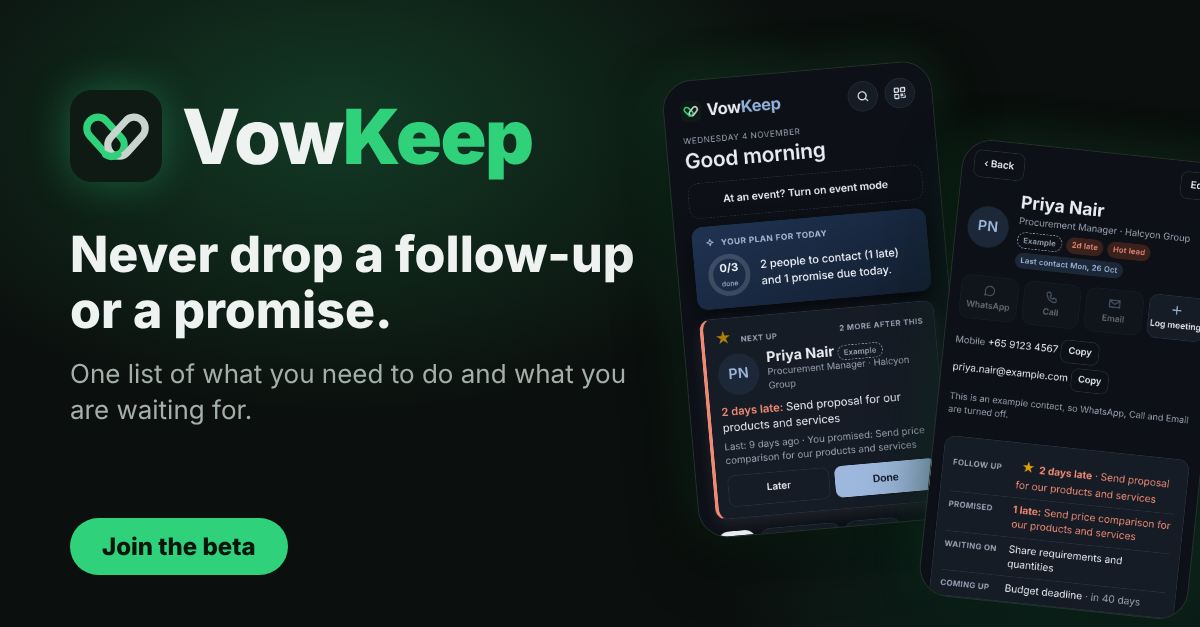
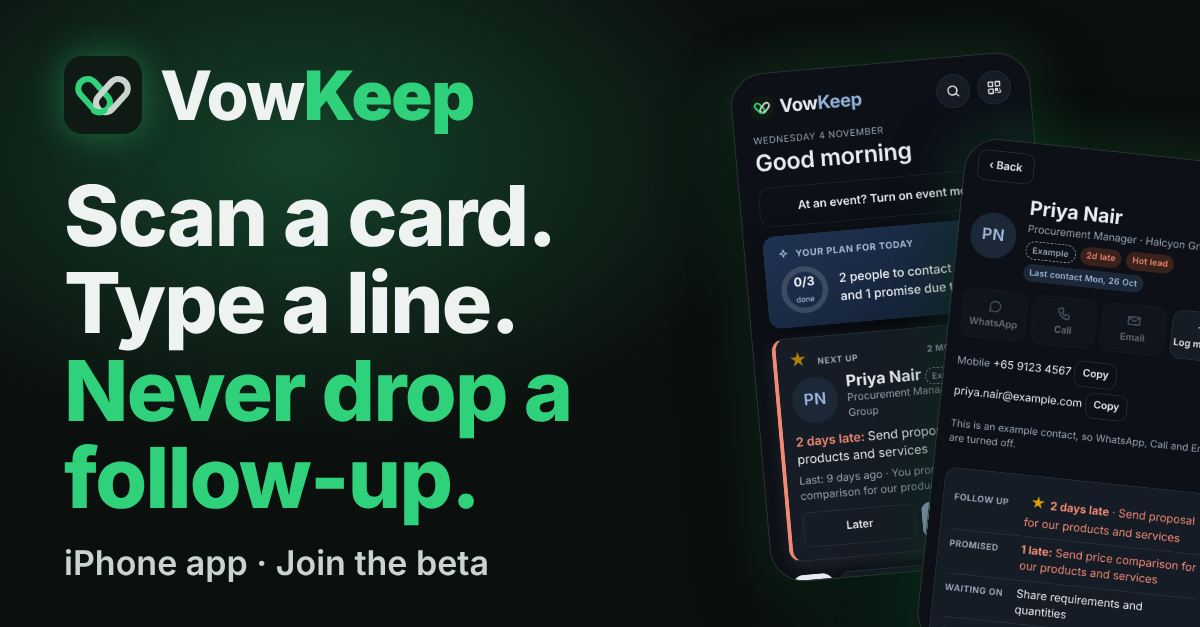
Share preview: clearer picture with bigger text, longer description, better title

diff --git a/index.html b/index.html
@@ -1,4 +1,4 @@
-<!doctype html><html lang="en"><head><meta charset="utf-8"><meta name="viewport" content="width=device-width, initial-scale=1"><meta name="description" content="VowKeep keeps one list of what you need to do for people and what you are waiting for from them. Scan a business card or type one line; it does the remembering."><meta name="theme-color" content="#0b0f0d"><link rel="icon" href="img/favicon.svg" type="image/svg+xml"><meta property="og:title" content="VowKeep"><meta property="og:description" content="Never drop a follow-up or a promise."><meta property="og:type" content="website"><meta property="og:site_name" content="VowKeep"><meta property="og:image" content="https://clarencecheng26-sys.github.io/vowkeep-site/img/og.png"><meta property="og:image:width" content="1200"><meta property="og:image:height" content="627"><meta property="og:image:alt" content="VowKeep: never drop a follow-up or a promise"><meta name="twitter:card" content="summary_large_image"><title>Professional Follow-Up Ledger · VowKeep</title><link rel="stylesheet" href="style.css"></head><body class="home"><main><header><svg viewBox="0 0 512 512" aria-hidden="true"><rect width="512" height="512" rx="112" fill="#0F1A14"/><g transform="translate(256 268)"><rect x="-62" y="-170" width="124" height="250" rx="62" transform="rotate(-42) translate(-38 0)" fill="none" stroke="#2FD27A" stroke-width="40"/><rect x="-62" y="-170" width="124" height="250" rx="62" transform="rotate(42) translate(38 0)" fill="none" stroke="#C9D4CF" stroke-width="40"/><path d="M-14 74 A62 62 0 0 1 -66 30" transform="rotate(-42) translate(-38 0)" fill="none" stroke="#2FD27A" stroke-width="40" stroke-linecap="round"/></g></svg><a href="index.html">VowKeep</a><nav><a href="#h-how">How it works</a><a href="#h-get">Features</a><a href="#h-plans">Plans</a><a href="#h-faq">FAQ</a><a class="navcta" href="https://forms.gle/W3UCwRWU8LSgqYCk6">Join the beta</a><button id="lookbtn" type="button" aria-pressed="false">Matrix look</button></nav></header>
+<!doctype html><html lang="en"><head><meta charset="utf-8"><meta name="viewport" content="width=device-width, initial-scale=1"><meta name="description" content="VowKeep keeps one list of what you need to do for people and what you are waiting for from them. Scan a business card or type one line; it does the remembering."><meta name="theme-color" content="#0b0f0d"><link rel="icon" href="img/favicon.svg" type="image/svg+xml"><meta property="og:title" content="VowKeep: scan a card, type a line, never drop a follow-up"><meta property="og:description" content="VowKeep is an iPhone app that remembers what you promised and what you are waiting for, and reminds you at the right time. Join the beta."><meta name="twitter:title" content="VowKeep: scan a card, type a line, never drop a follow-up"><meta name="twitter:description" content="VowKeep is an iPhone app that remembers what you promised and what you are waiting for, and reminds you at the right time. Join the beta."><meta property="og:type" content="website"><meta property="og:site_name" content="VowKeep"><meta property="og:image" content="https://clarencecheng26-sys.github.io/vowkeep-site/img/og.png?v=2"><meta property="og:image:width" content="1200"><meta property="og:image:height" content="627"><meta property="og:image:alt" content="VowKeep: never drop a follow-up or a promise"><meta name="twitter:card" content="summary_large_image"><title>Professional Follow-Up Ledger · VowKeep</title><link rel="stylesheet" href="style.css"></head><body class="home"><main><header><svg viewBox="0 0 512 512" aria-hidden="true"><rect width="512" height="512" rx="112" fill="#0F1A14"/><g transform="translate(256 268)"><rect x="-62" y="-170" width="124" height="250" rx="62" transform="rotate(-42) translate(-38 0)" fill="none" stroke="#2FD27A" stroke-width="40"/><rect x="-62" y="-170" width="124" height="250" rx="62" transform="rotate(42) translate(38 0)" fill="none" stroke="#C9D4CF" stroke-width="40"/><path d="M-14 74 A62 62 0 0 1 -66 30" transform="rotate(-42) translate(-38 0)" fill="none" stroke="#2FD27A" stroke-width="40" stroke-linecap="round"/></g></svg><a href="index.html">VowKeep</a><nav><a href="#h-how">How it works</a><a href="#h-get">Features</a><a href="#h-plans">Plans</a><a href="#h-faq">FAQ</a><a class="navcta" href="https://forms.gle/W3UCwRWU8LSgqYCk6">Join the beta</a><button id="lookbtn" type="button" aria-pressed="false">Matrix look</button></nav></header>
 <section class="hero">
 <div class="brandbig"><svg class="bigmark" viewBox="0 0 512 512" aria-hidden="true"><rect width="512" height="512" rx="112" fill="#0F1A14"/><g transform="translate(256 268)"><rect x="-62" y="-170" width="124" height="250" rx="62" transform="rotate(-42) translate(-38 0)" fill="none" stroke="#2FD27A" stroke-width="40"/><rect x="-62" y="-170" width="124" height="250" rx="62" transform="rotate(42) translate(38 0)" fill="none" stroke="#C9D4CF" stroke-width="40"/><path d="M-14 74 A62 62 0 0 1 -66 30" transform="rotate(-42) translate(-38 0)" fill="none" stroke="#2FD27A" stroke-width="40" stroke-linecap="round"/></g></svg><span>Vow<b>Keep</b></span></div>
 <h1>Scan a card. Type a line.<br><span class="hl">Never drop a follow-up.</span></h1>

diff --git a/delete-account.html b/delete-account.html
@@ -1,4 +1,4 @@
-<!doctype html><html lang="en"><head><meta charset="utf-8"><meta name="viewport" content="width=device-width, initial-scale=1"><meta name="description" content="VowKeep keeps one list of what you need to do for people and what you are waiting for from them. Scan a business card or type one line; it does the remembering."><meta name="theme-color" content="#0b0f0d"><link rel="icon" href="img/favicon.svg" type="image/svg+xml"><meta property="og:title" content="VowKeep"><meta property="og:description" content="Never drop a follow-up or a promise."><meta property="og:type" content="website"><meta property="og:site_name" content="VowKeep"><meta property="og:image" content="https://clarencecheng26-sys.github.io/vowkeep-site/img/og.png"><meta property="og:image:width" content="1200"><meta property="og:image:height" content="627"><meta property="og:image:alt" content="VowKeep: never drop a follow-up or a promise"><meta name="twitter:card" content="summary_large_image"><title>Delete your account · VowKeep</title><link rel="stylesheet" href="style.css"></head><body><main><header><svg viewBox="0 0 512 512" aria-hidden="true"><rect width="512" height="512" rx="112" fill="#0F1A14"/><g transform="translate(256 268)"><rect x="-62" y="-170" width="124" height="250" rx="62" transform="rotate(-42) translate(-38 0)" fill="none" stroke="#2FD27A" stroke-width="40"/><rect x="-62" y="-170" width="124" height="250" rx="62" transform="rotate(42) translate(38 0)" fill="none" stroke="#C9D4CF" stroke-width="40"/><path d="M-14 74 A62 62 0 0 1 -66 30" transform="rotate(-42) translate(-38 0)" fill="none" stroke="#2FD27A" stroke-width="40" stroke-linecap="round"/></g></svg><a href="index.html">VowKeep</a><nav><a href="privacy.html">Privacy</a><a href="terms.html">Terms</a><a href="support.html">Support</a><button id="lookbtn" type="button" aria-pressed="false">Matrix look</button></nav></header>
+<!doctype html><html lang="en"><head><meta charset="utf-8"><meta name="viewport" content="width=device-width, initial-scale=1"><meta name="description" content="VowKeep keeps one list of what you need to do for people and what you are waiting for from them. Scan a business card or type one line; it does the remembering."><meta name="theme-color" content="#0b0f0d"><link rel="icon" href="img/favicon.svg" type="image/svg+xml"><meta property="og:title" content="VowKeep: scan a card, type a line, never drop a follow-up"><meta property="og:description" content="VowKeep is an iPhone app that remembers what you promised and what you are waiting for, and reminds you at the right time. Join the beta."><meta name="twitter:title" content="VowKeep: scan a card, type a line, never drop a follow-up"><meta name="twitter:description" content="VowKeep is an iPhone app that remembers what you promised and what you are waiting for, and reminds you at the right time. Join the beta."><meta property="og:type" content="website"><meta property="og:site_name" content="VowKeep"><meta property="og:image" content="https://clarencecheng26-sys.github.io/vowkeep-site/img/og.png?v=2"><meta property="og:image:width" content="1200"><meta property="og:image:height" content="627"><meta property="og:image:alt" content="VowKeep: never drop a follow-up or a promise"><meta name="twitter:card" content="summary_large_image"><title>Delete your account · VowKeep</title><link rel="stylesheet" href="style.css"></head><body><main><header><svg viewBox="0 0 512 512" aria-hidden="true"><rect width="512" height="512" rx="112" fill="#0F1A14"/><g transform="translate(256 268)"><rect x="-62" y="-170" width="124" height="250" rx="62" transform="rotate(-42) translate(-38 0)" fill="none" stroke="#2FD27A" stroke-width="40"/><rect x="-62" y="-170" width="124" height="250" rx="62" transform="rotate(42) translate(38 0)" fill="none" stroke="#C9D4CF" stroke-width="40"/><path d="M-14 74 A62 62 0 0 1 -66 30" transform="rotate(-42) translate(-38 0)" fill="none" stroke="#2FD27A" stroke-width="40" stroke-linecap="round"/></g></svg><a href="index.html">VowKeep</a><nav><a href="privacy.html">Privacy</a><a href="terms.html">Terms</a><a href="support.html">Support</a><button id="lookbtn" type="button" aria-pressed="false">Matrix look</button></nav></header>
 <h1>Delete your account</h1>
 <p><b>Fastest:</b> in the app, go to Me › Delete account. Your account is locked at once and permanently deleted after 7 days; you can cancel within those 7 days from the email we send.</p>
 <p><b>Without the app:</b> email <a href="mailto:vowkeep.app@gmail.com?subject=Delete%20my%20VowKeep%20account">vowkeep.app@gmail.com</a> from the email address you signed up with, with the subject "Delete my VowKeep account". We confirm within 2 working days.</p>

diff --git a/terms.html b/terms.html
@@ -1,4 +1,4 @@
-<!doctype html><html lang="en"><head><meta charset="utf-8"><meta name="viewport" content="width=device-width, initial-scale=1"><meta name="description" content="VowKeep keeps one list of what you need to do for people and what you are waiting for from them. Scan a business card or type one line; it does the remembering."><meta name="theme-color" content="#0b0f0d"><link rel="icon" href="img/favicon.svg" type="image/svg+xml"><meta property="og:title" content="VowKeep"><meta property="og:description" content="Never drop a follow-up or a promise."><meta property="og:type" content="website"><meta property="og:site_name" content="VowKeep"><meta property="og:image" content="https://clarencecheng26-sys.github.io/vowkeep-site/img/og.png"><meta property="og:image:width" content="1200"><meta property="og:image:height" content="627"><meta property="og:image:alt" content="VowKeep: never drop a follow-up or a promise"><meta name="twitter:card" content="summary_large_image"><title>Terms of Use · VowKeep</title><link rel="stylesheet" href="style.css"></head><body><main><header><svg viewBox="0 0 512 512" aria-hidden="true"><rect width="512" height="512" rx="112" fill="#0F1A14"/><g transform="translate(256 268)"><rect x="-62" y="-170" width="124" height="250" rx="62" transform="rotate(-42) translate(-38 0)" fill="none" stroke="#2FD27A" stroke-width="40"/><rect x="-62" y="-170" width="124" height="250" rx="62" transform="rotate(42) translate(38 0)" fill="none" stroke="#C9D4CF" stroke-width="40"/><path d="M-14 74 A62 62 0 0 1 -66 30" transform="rotate(-42) translate(-38 0)" fill="none" stroke="#2FD27A" stroke-width="40" stroke-linecap="round"/></g></svg><a href="index.html">VowKeep</a><nav><a href="privacy.html">Privacy</a><a href="terms.html">Terms</a><a href="support.html">Support</a><button id="lookbtn" type="button" aria-pressed="false">Matrix look</button></nav></header>
+<!doctype html><html lang="en"><head><meta charset="utf-8"><meta name="viewport" content="width=device-width, initial-scale=1"><meta name="description" content="VowKeep keeps one list of what you need to do for people and what you are waiting for from them. Scan a business card or type one line; it does the remembering."><meta name="theme-color" content="#0b0f0d"><link rel="icon" href="img/favicon.svg" type="image/svg+xml"><meta property="og:title" content="VowKeep: scan a card, type a line, never drop a follow-up"><meta property="og:description" content="VowKeep is an iPhone app that remembers what you promised and what you are waiting for, and reminds you at the right time. Join the beta."><meta name="twitter:title" content="VowKeep: scan a card, type a line, never drop a follow-up"><meta name="twitter:description" content="VowKeep is an iPhone app that remembers what you promised and what you are waiting for, and reminds you at the right time. Join the beta."><meta property="og:type" content="website"><meta property="og:site_name" content="VowKeep"><meta property="og:image" content="https://clarencecheng26-sys.github.io/vowkeep-site/img/og.png?v=2"><meta property="og:image:width" content="1200"><meta property="og:image:height" content="627"><meta property="og:image:alt" content="VowKeep: never drop a follow-up or a promise"><meta name="twitter:card" content="summary_large_image"><title>Terms of Use · VowKeep</title><link rel="stylesheet" href="style.css"></head><body><main><header><svg viewBox="0 0 512 512" aria-hidden="true"><rect width="512" height="512" rx="112" fill="#0F1A14"/><g transform="translate(256 268)"><rect x="-62" y="-170" width="124" height="250" rx="62" transform="rotate(-42) translate(-38 0)" fill="none" stroke="#2FD27A" stroke-width="40"/><rect x="-62" y="-170" width="124" height="250" rx="62" transform="rotate(42) translate(38 0)" fill="none" stroke="#C9D4CF" stroke-width="40"/><path d="M-14 74 A62 62 0 0 1 -66 30" transform="rotate(-42) translate(-38 0)" fill="none" stroke="#2FD27A" stroke-width="40" stroke-linecap="round"/></g></svg><a href="index.html">VowKeep</a><nav><a href="privacy.html">Privacy</a><a href="terms.html">Terms</a><a href="support.html">Support</a><button id="lookbtn" type="button" aria-pressed="false">Matrix look</button></nav></header>
 <h1 id="vowkeep-terms-of-use">VowKeep Terms of Use</h1>
 <p>Effective date: [launch date] · Provider: Cheng Ee Pei (Clarence
 Cheng), an individual developer in Singapore · Contact: <a

diff --git a/privacy.html b/privacy.html
@@ -1,4 +1,4 @@
-<!doctype html><html lang="en"><head><meta charset="utf-8"><meta name="viewport" content="width=device-width, initial-scale=1"><meta name="description" content="VowKeep keeps one list of what you need to do for people and what you are waiting for from them. Scan a business card or type one line; it does the remembering."><meta name="theme-color" content="#0b0f0d"><link rel="icon" href="img/favicon.svg" type="image/svg+xml"><meta property="og:title" content="VowKeep"><meta property="og:description" content="Never drop a follow-up or a promise."><meta property="og:type" content="website"><meta property="og:site_name" content="VowKeep"><meta property="og:image" content="https://clarencecheng26-sys.github.io/vowkeep-site/img/og.png"><meta property="og:image:width" content="1200"><meta property="og:image:height" content="627"><meta property="og:image:alt" content="VowKeep: never drop a follow-up or a promise"><meta name="twitter:card" content="summary_large_image"><title>Privacy Policy · VowKeep</title><link rel="stylesheet" href="style.css"></head><body><main><header><svg viewBox="0 0 512 512" aria-hidden="true"><rect width="512" height="512" rx="112" fill="#0F1A14"/><g transform="translate(256 268)"><rect x="-62" y="-170" width="124" height="250" rx="62" transform="rotate(-42) translate(-38 0)" fill="none" stroke="#2FD27A" stroke-width="40"/><rect x="-62" y="-170" width="124" height="250" rx="62" transform="rotate(42) translate(38 0)" fill="none" stroke="#C9D4CF" stroke-width="40"/><path d="M-14 74 A62 62 0 0 1 -66 30" transform="rotate(-42) translate(-38 0)" fill="none" stroke="#2FD27A" stroke-width="40" stroke-linecap="round"/></g></svg><a href="index.html">VowKeep</a><nav><a href="privacy.html">Privacy</a><a href="terms.html">Terms</a><a href="support.html">Support</a><button id="lookbtn" type="button" aria-pressed="false">Matrix look</button></nav></header>
+<!doctype html><html lang="en"><head><meta charset="utf-8"><meta name="viewport" content="width=device-width, initial-scale=1"><meta name="description" content="VowKeep keeps one list of what you need to do for people and what you are waiting for from them. Scan a business card or type one line; it does the remembering."><meta name="theme-color" content="#0b0f0d"><link rel="icon" href="img/favicon.svg" type="image/svg+xml"><meta property="og:title" content="VowKeep: scan a card, type a line, never drop a follow-up"><meta property="og:description" content="VowKeep is an iPhone app that remembers what you promised and what you are waiting for, and reminds you at the right time. Join the beta."><meta name="twitter:title" content="VowKeep: scan a card, type a line, never drop a follow-up"><meta name="twitter:description" content="VowKeep is an iPhone app that remembers what you promised and what you are waiting for, and reminds you at the right time. Join the beta."><meta property="og:type" content="website"><meta property="og:site_name" content="VowKeep"><meta property="og:image" content="https://clarencecheng26-sys.github.io/vowkeep-site/img/og.png?v=2"><meta property="og:image:width" content="1200"><meta property="og:image:height" content="627"><meta property="og:image:alt" content="VowKeep: never drop a follow-up or a promise"><meta name="twitter:card" content="summary_large_image"><title>Privacy Policy · VowKeep</title><link rel="stylesheet" href="style.css"></head><body><main><header><svg viewBox="0 0 512 512" aria-hidden="true"><rect width="512" height="512" rx="112" fill="#0F1A14"/><g transform="translate(256 268)"><rect x="-62" y="-170" width="124" height="250" rx="62" transform="rotate(-42) translate(-38 0)" fill="none" stroke="#2FD27A" stroke-width="40"/><rect x="-62" y="-170" width="124" height="250" rx="62" transform="rotate(42) translate(38 0)" fill="none" stroke="#C9D4CF" stroke-width="40"/><path d="M-14 74 A62 62 0 0 1 -66 30" transform="rotate(-42) translate(-38 0)" fill="none" stroke="#2FD27A" stroke-width="40" stroke-linecap="round"/></g></svg><a href="index.html">VowKeep</a><nav><a href="privacy.html">Privacy</a><a href="terms.html">Terms</a><a href="support.html">Support</a><button id="lookbtn" type="button" aria-pressed="false">Matrix look</button></nav></header>
 <h1 id="vowkeep-privacy-policy">VowKeep Privacy Policy</h1>
 <p>Effective date: [launch date]<br />
 Publisher: Cheng Ee Pei (Clarence Cheng), an individual developer in

diff --git a/support.html b/support.html
@@ -1,4 +1,4 @@
-<!doctype html><html lang="en"><head><meta charset="utf-8"><meta name="viewport" content="width=device-width, initial-scale=1"><meta name="description" content="VowKeep keeps one list of what you need to do for people and what you are waiting for from them. Scan a business card or type one line; it does the remembering."><meta name="theme-color" content="#0b0f0d"><link rel="icon" href="img/favicon.svg" type="image/svg+xml"><meta property="og:title" content="VowKeep"><meta property="og:description" content="Never drop a follow-up or a promise."><meta property="og:type" content="website"><meta property="og:site_name" content="VowKeep"><meta property="og:image" content="https://clarencecheng26-sys.github.io/vowkeep-site/img/og.png"><meta property="og:image:width" content="1200"><meta property="og:image:height" content="627"><meta property="og:image:alt" content="VowKeep: never drop a follow-up or a promise"><meta name="twitter:card" content="summary_large_image"><title>Support · VowKeep</title><link rel="stylesheet" href="style.css"></head><body><main><header><svg viewBox="0 0 512 512" aria-hidden="true"><rect width="512" height="512" rx="112" fill="#0F1A14"/><g transform="translate(256 268)"><rect x="-62" y="-170" width="124" height="250" rx="62" transform="rotate(-42) translate(-38 0)" fill="none" stroke="#2FD27A" stroke-width="40"/><rect x="-62" y="-170" width="124" height="250" rx="62" transform="rotate(42) translate(38 0)" fill="none" stroke="#C9D4CF" stroke-width="40"/><path d="M-14 74 A62 62 0 0 1 -66 30" transform="rotate(-42) translate(-38 0)" fill="none" stroke="#2FD27A" stroke-width="40" stroke-linecap="round"/></g></svg><a href="index.html">VowKeep</a><nav><a href="privacy.html">Privacy</a><a href="terms.html">Terms</a><a href="support.html">Support</a><button id="lookbtn" type="button" aria-pressed="false">Matrix look</button></nav></header>
+<!doctype html><html lang="en"><head><meta charset="utf-8"><meta name="viewport" content="width=device-width, initial-scale=1"><meta name="description" content="VowKeep keeps one list of what you need to do for people and what you are waiting for from them. Scan a business card or type one line; it does the remembering."><meta name="theme-color" content="#0b0f0d"><link rel="icon" href="img/favicon.svg" type="image/svg+xml"><meta property="og:title" content="VowKeep: scan a card, type a line, never drop a follow-up"><meta property="og:description" content="VowKeep is an iPhone app that remembers what you promised and what you are waiting for, and reminds you at the right time. Join the beta."><meta name="twitter:title" content="VowKeep: scan a card, type a line, never drop a follow-up"><meta name="twitter:description" content="VowKeep is an iPhone app that remembers what you promised and what you are waiting for, and reminds you at the right time. Join the beta."><meta property="og:type" content="website"><meta property="og:site_name" content="VowKeep"><meta property="og:image" content="https://clarencecheng26-sys.github.io/vowkeep-site/img/og.png?v=2"><meta property="og:image:width" content="1200"><meta property="og:image:height" content="627"><meta property="og:image:alt" content="VowKeep: never drop a follow-up or a promise"><meta name="twitter:card" content="summary_large_image"><title>Support · VowKeep</title><link rel="stylesheet" href="style.css"></head><body><main><header><svg viewBox="0 0 512 512" aria-hidden="true"><rect width="512" height="512" rx="112" fill="#0F1A14"/><g transform="translate(256 268)"><rect x="-62" y="-170" width="124" height="250" rx="62" transform="rotate(-42) translate(-38 0)" fill="none" stroke="#2FD27A" stroke-width="40"/><rect x="-62" y="-170" width="124" height="250" rx="62" transform="rotate(42) translate(38 0)" fill="none" stroke="#C9D4CF" stroke-width="40"/><path d="M-14 74 A62 62 0 0 1 -66 30" transform="rotate(-42) translate(-38 0)" fill="none" stroke="#2FD27A" stroke-width="40" stroke-linecap="round"/></g></svg><a href="index.html">VowKeep</a><nav><a href="privacy.html">Privacy</a><a href="terms.html">Terms</a><a href="support.html">Support</a><button id="lookbtn" type="button" aria-pressed="false">Matrix look</button></nav></header>
 <h1>Support</h1>
 <p>Email <a href="mailto:vowkeep.app@gmail.com">vowkeep.app@gmail.com</a>. We reply within 2 working days.</p>
 <h2>Common questions</h2>
